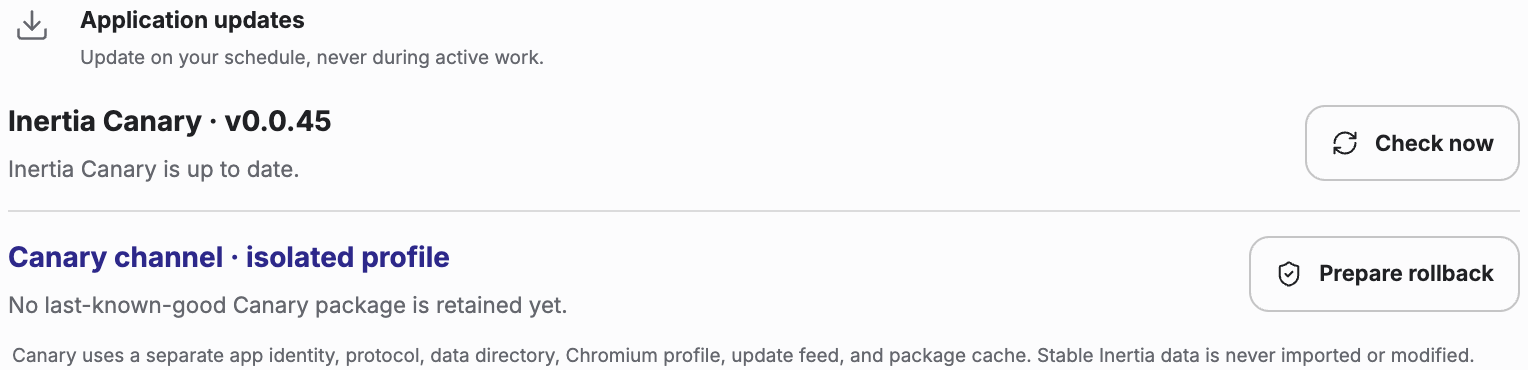
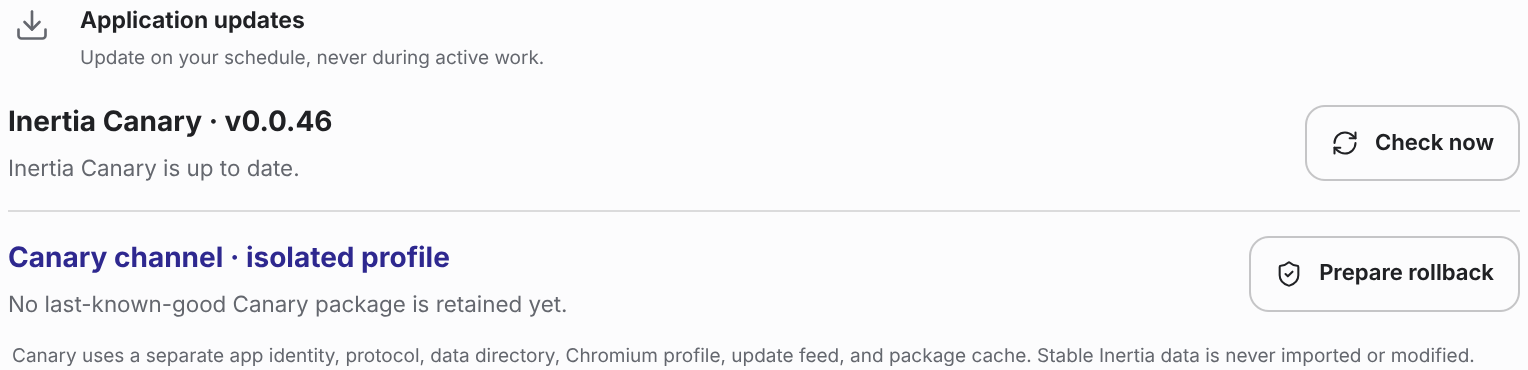
chore: prepare Inertia 0.0.46

diff --git a/tests/main/canary-feed.test.ts b/tests/main/canary-feed.test.ts
@@ -13,7 +13,7 @@ import {
 } from "../../scripts/validate-canary-feed-advance.mjs";
 
 const roots: string[] = [];
-const version = "0.0.45";
+const version = "0.0.46";
 const metadata = [
   `version: ${version}`,
   "files:",
@@ -116,12 +116,12 @@ describe("Canary feed publication", () => {
       version: candidateVersion,
       tag: `canary-v${candidateVersion}`,
     });
-    const initiallyPublished = status("0.0.44");
-    const newerWinner = status("0.0.46");
-    const olderLateJob = status("0.0.45");
+    const initiallyPublished = status("0.0.45");
+    const newerWinner = status("0.0.47");
+    const olderLateJob = status("0.0.46");
 
     expect(validateCanaryFeedAdvance(initiallyPublished, newerWinner))
-      .toEqual({ version: "0.0.46", tag: "canary-v0.0.46" });
+      .toEqual({ version: "0.0.47", tag: "canary-v0.0.47" });
     expect(validateCanaryFeedAdvance(newerWinner, olderLateJob)).toBeNull();
     expect(validateCanaryFeedAdvance(newerWinner, newerWinner)).toBeNull();
     expect(compareCanaryVersions("10.0.0", "9.999.999")).toBe(1);

diff --git a/tests/renderer/settings-composite-updates.dom.test.tsx b/tests/renderer/settings-composite-updates.dom.test.tsx
@@ -222,7 +222,7 @@ describe("Settings composite updates", () => {
       message: "Inertia Canary is up to date.",
     }} />);
 
-    expect(screen.getByText("Inertia Canary · v0.0.45")).toBeInTheDocument();
+    expect(screen.getByText("Inertia Canary · v0.0.46")).toBeInTheDocument();
     expect(await screen.findByText("Canary channel · isolated profile")).toBeInTheDocument();
     expect(await screen.findByText("Verified Canary 0.0.40 is retained for rollback."))
       .toBeInTheDocument();

diff --git a/README.md b/README.md
@@ -236,9 +236,9 @@ If something goes wrong, first refresh the affected provider in **Settings → P
 
 Report suspected vulnerabilities privately through the [security policy](SECURITY.md), never through a public issue.
 
-### Version 0.0.45
+### Version 0.0.46
 
-Inertia 0.0.45 makes the integrated Browser immediately usable from new and existing chats, composes reviewed Inertia-owned capabilities above every provider's native harness, fixes the Windows ARM64 installer path, and restores runtime work after an app or runtime crash without asking the user to reboot. Daily Work durations now exclude time while the computer is suspended, so sleep no longer inflates recorded work. Windows containment is bound to the exact native process creation identity, Linux guardian completion is authenticated, and macOS retries transient privileged process reads within a strict fail-closed bound.
+Inertia 0.0.46 prevents one unconfirmed provider subprocess cleanup from leaving every later provider or terminal request permanently fail-closed. The first owned-process registry taint now stops the local runtime exactly once and lets the supervisor replace it. Because recovery is owned by the shared registry, the same boundary covers Codex, Claude, Cursor, Kimi Code, and OpenCode, including discovery, validation, metadata, maintenance, and active-run subprocesses. Admission still fails closed before notification, stale registries cannot restart the current runtime, and callback failure cannot reopen process admission.
 
 Inertia now gives each chat a visible local Browser with bounded agent actions and an inspectable, fail-closed evidence timeline for screenshots, console failures, failed requests, navigation, and actions. The pre-merge confidence view collects exact-head CI, review freshness, affected areas, focused evidence, portability, bundle deltas, and release readiness without letting stale status look green.
 
@@ -250,7 +250,7 @@ Newly completed answers also retain their intended reading position across ordin
 
 Stable builds now cover six native architectures. Unsigned Windows and ad-hoc macOS packages remain manual downloads until signing credentials exist; Linux AppImages keep verified in-app delivery. The separately identified Canary prerelease channel can test and roll back Canary packages without changing Stable's feed or local state.
 
-Download [Inertia v0.0.45](https://github.com/eduardtomas1/inertia/releases/tag/v0.0.45):
+Download [Inertia v0.0.46](https://github.com/eduardtomas1/inertia/releases/tag/v0.0.46):
 
 | Platform | Architecture | Package | Update delivery after the first manual install |
 | --- | --- | --- | --- |

diff --git a/CHANGELOG.md b/CHANGELOG.md
@@ -4,6 +4,18 @@ The useful changes in each Inertia release, in plain language.
 
 ## Next
 
+## 0.0.46 — 2026-09-01
+
+### Provider work recovers after ownership uncertainty
+
+- When owned-process containment or cleanup becomes unconfirmable, the first registry taint now stops the local runtime once so the supervisor can replace it. Later provider and terminal requests no longer remain permanently fail-closed inside a poisoned runtime.
+- Recovery is wired at the shared owned-process registry, so it covers Codex, Claude, Cursor, Kimi Code, and OpenCode as well as provider discovery, validation, metadata, maintenance, and run subprocesses. Non-run provider work receives the same recovery boundary as an active chat.
+- Admission remains fail-closed before restart notification. Repeated taint signals are idempotent, stale or deactivated registries cannot restart the current runtime, and a failing notification callback cannot reopen process admission.
+
+### Release confidence
+
+- Integration coverage taints a provider subprocess outside an active run and proves the runtime notification fires exactly once. Provider coverage, both lint layers, type safety, architecture and migration checks, and the complete Linux, macOS, and Windows pull-request matrix remain green at the exact merged fix head.
+
 ## 0.0.45 — 2026-08-30
 
 ### The Browser is ready when the chat is
